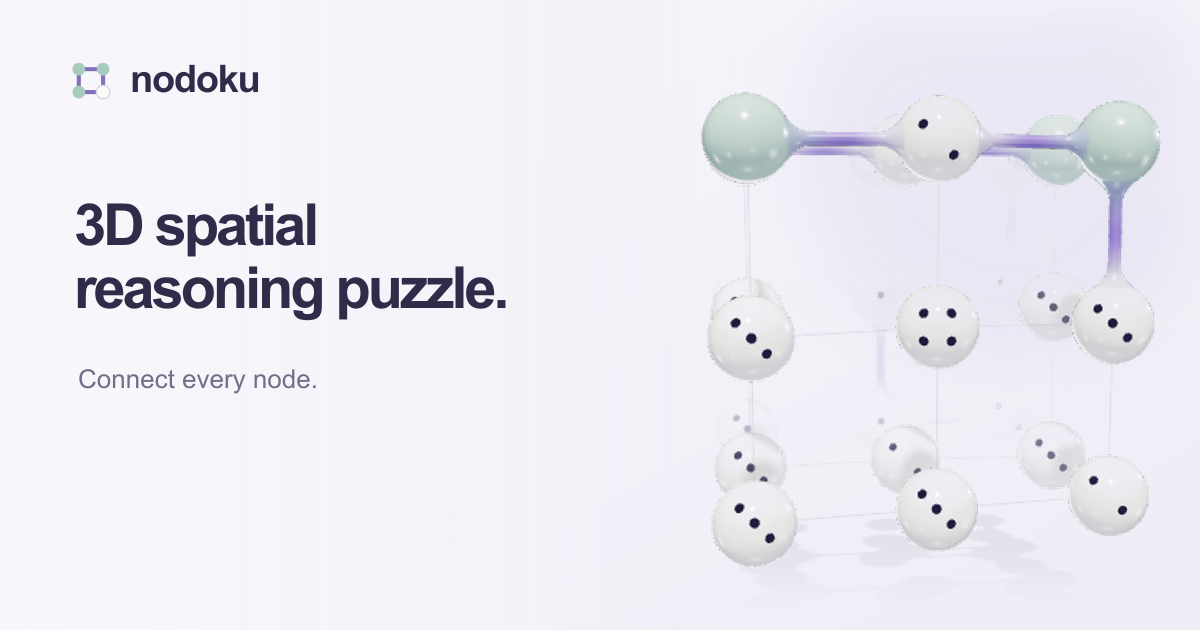
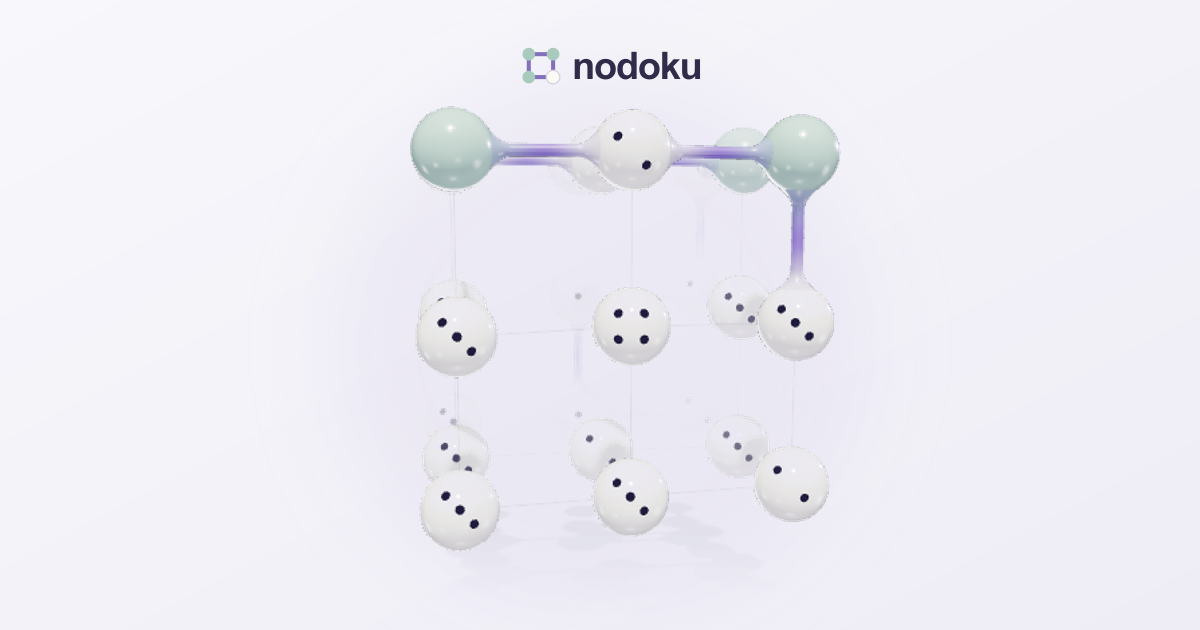
Make Open Graph card mobile safe

diff --git a/index.html b/index.html
@@ -15,8 +15,8 @@
     <meta property="og:url" content="https://nodoku.solokh.com/" />
     <meta property="og:title" content="Nodoku — 3D Spatial Reasoning Puzzle" />
     <meta property="og:description" content="Connect every node and complete one network in a tactile 3D reasoning puzzle." />
-    <meta property="og:image" content="https://nodoku.solokh.com/og-image.png?v=3d-green-white" />
-    <meta property="og:image:secure_url" content="https://nodoku.solokh.com/og-image.png?v=3d-green-white" />
+    <meta property="og:image" content="https://nodoku.solokh.com/og-image.png?v=3d-safe-v2" />
+    <meta property="og:image:secure_url" content="https://nodoku.solokh.com/og-image.png?v=3d-safe-v2" />
     <meta property="og:image:type" content="image/png" />
     <meta property="og:image:width" content="1200" />
     <meta property="og:image:height" content="630" />
@@ -24,7 +24,7 @@
     <meta name="twitter:card" content="summary_large_image" />
     <meta name="twitter:title" content="Nodoku — 3D Spatial Reasoning Puzzle" />
     <meta name="twitter:description" content="Connect every node and complete one network in a tactile 3D reasoning puzzle." />
-    <meta name="twitter:image" content="https://nodoku.solokh.com/og-image.png?v=3d-green-white" />
+    <meta name="twitter:image" content="https://nodoku.solokh.com/og-image.png?v=3d-safe-v2" />
     <meta name="twitter:image:alt" content="Nodoku — 3D Spatial Reasoning Puzzle" />
     <link rel="icon" type="image/svg+xml" href="/src/favicon.svg" />
     <title>Nodoku — 3D Spatial Reasoning Puzzle</title>

diff --git a/tests/open-graph.test.ts b/tests/open-graph.test.ts
@@ -11,7 +11,7 @@ test("home page publishes complete Open Graph and social-card metadata", async (
     ["property", "og:site_name", "Nodoku"],
     ["property", "og:url", "https://nodoku.solokh.com/"],
     ["property", "og:title", "Nodoku — 3D Spatial Reasoning Puzzle"],
-    ["property", "og:image", "https://nodoku.solokh.com/og-image.png?v=3d-green-white"],
+    ["property", "og:image", "https://nodoku.solokh.com/og-image.png?v=3d-safe-v2"],
     ["property", "og:image:width", "1200"],
     ["property", "og:image:height", "630"],
     ["name", "twitter:card", "summary_large_image"],

diff --git a/progress.md b/progress.md
@@ -1649,3 +1649,9 @@ TODO / Note
 - A trusted pointer/touch release now also unlocks SFX, and the initial gesture warms iOS Web Audio with a silent source.
 - Retained only the immediate first sound until its gesture-owned resume completes; mute, suspension, and stop still discard it.
 - Verified `node --import tsx --test tests/sound.test.ts` (34 passing), `npm run build`, and the required web-game Playwright smoke run. Screenshot reviewed at `output/web-game/mobile-audio-unlock/shot-0.png`.
+
+## 2026-09-12 — Mobile-safe Open Graph card
+- Reframed the captured Three.js scene into the central square-safe area of the 1200×630 social card, replacing the desktop left-copy/right-scene split that cropped foreground nodes in mobile previews.
+- Reduced the graphic to the aligned Nodoku logo plus the 3D scene, retaining metadata copy outside the image.
+- Updated the image cache version to `3d-safe-v2` so social platforms fetch the new card.
+- Reviewed the full card, a centered square crop, and a 4:5 crop; all foreground nodes and the logo remain framed. Verified `tests/open-graph.test.ts`, `npm run build`, and the web-game Playwright smoke check.
